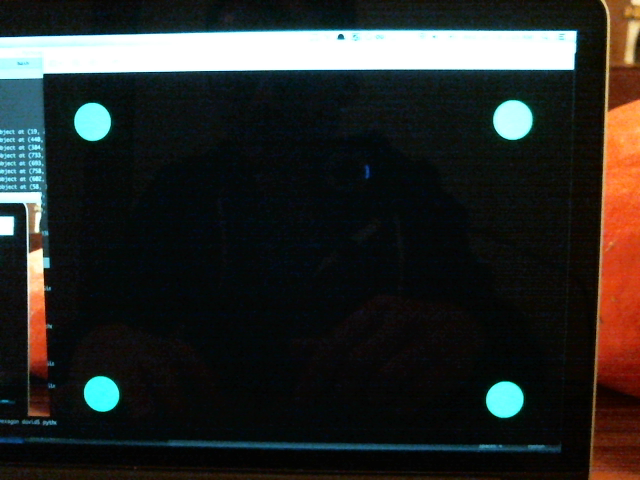
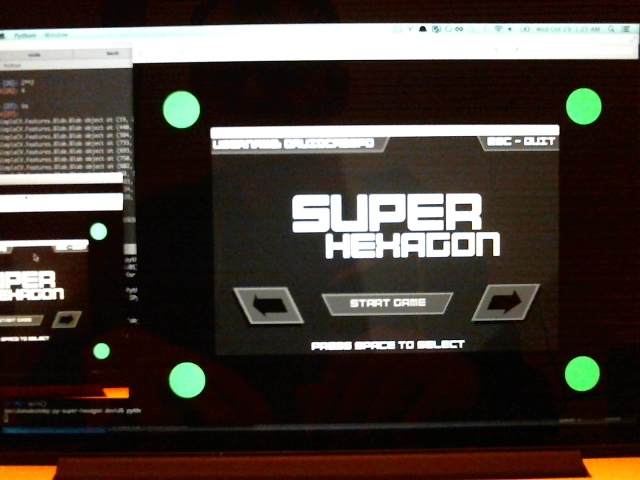
detect frame markers

diff --git a/window.py b/window.py
@@ -1,21 +1,40 @@
-from SimpleCV import Camera, Display, Image
-
-cam = Camera(0, { 'width': 640, 'height': 480 })
-
+from SimpleCV import Camera, Color, Display, Image
+from parse import show_img
 
 
+def find_markers(img):
+    blobs = img.binarize().findBlobs()
+    markers = [b for b in blobs if b.isCircle(tolerance=0.20)]
+    return markers
 
-# def find_markers(img):
 
 if __name__ == "__main__":
-    winsize = (640,480)
-    display = Display(winsize)
+    img = Image('vid_test2.png')
+    # markers = find_markers(img)
+    # print len(markers)
+    img2 = img.colorDistance(color=(174, 255, 216)).invert().binarize()
 
-    while display.isNotDone():
-        img = cam.getImage()
-        img.save(display)
+    markers = find_markers(img2)
+    print '%d circles' % len(markers)
 
-        if display.mouseLeft:
-              img.save("screenshot.png")
+    layer = img2.dl()
+    for c in markers:
+        x, y = c.centroid()
+        x, y = int(x), int(y)
+        layer.circle((x,y), 10, color=Color.RED, filled=True)
 
-    display.quit()
+    show_img(img2)
+
+# if __name__ == "__main__":
+#     cam = Camera(0, { 'width': 640, 'height': 480 })
+#     winsize = (640,480)
+#     display = Display(winsize)
+
+#     while display.isNotDone():
+#         img = cam.getImage()
+#         img.save(display)
+
+#         if display.mouseLeft:
+#               img.save("screenshot.png")
+
+#     display.quit()

diff --git a/parse.py b/parse.py
@@ -79,6 +79,7 @@ class ParsedFrame:
             layer.circle(p, 5, color=pointcolor, filled=True)
         circle(self.center_point)
         for p in self.center_vertices:
+            print p
             circle(p)
 
 def parse_frame(img):
